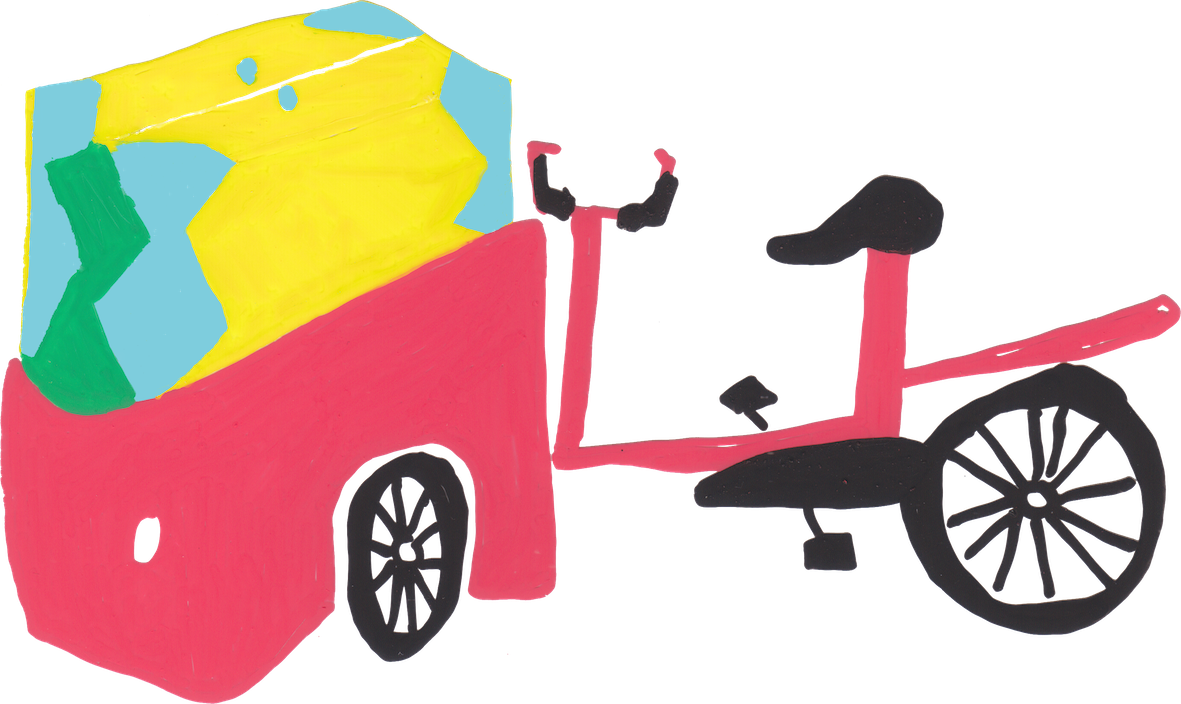
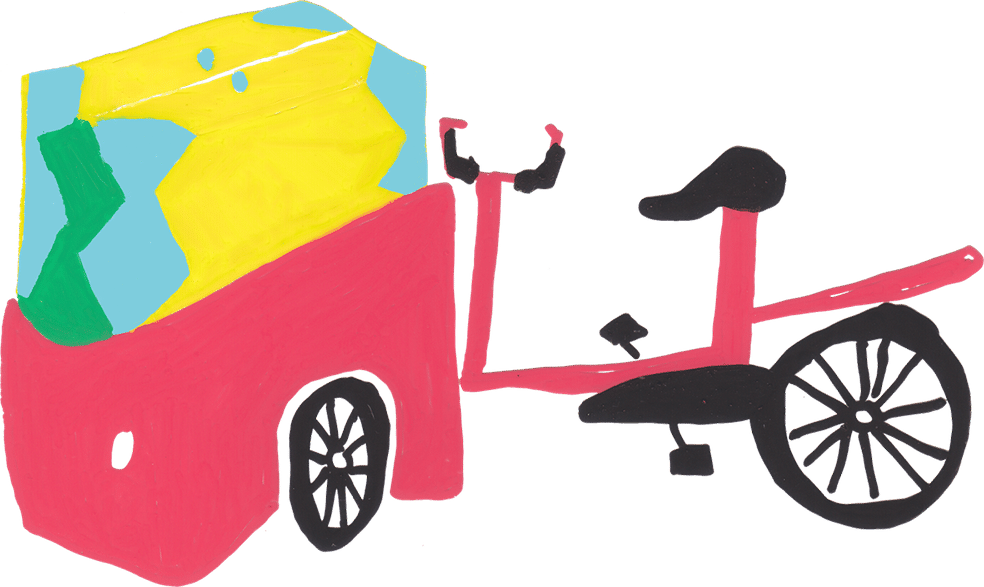
Working on chrome?
I'm removing the p5 sound bit since we don't need that right now... hoping this allows it to work on chrome.... also smaller bike img :)

diff --git a/buurtijs.js b/buurtijs.js
@@ -17,6 +17,10 @@ let textY;
 let cnv;
 
 
+function preload (){
+  bike2 = loadImage ("images/Bike2-s.png");
+}
+
 function setup() {
   cnv = createCanvas(windowWidth, windowHeight);
   // cnv.position(0,0)
@@ -29,15 +33,9 @@ function setup() {
  textX = 0.20*windowWidth;
  textY = 0.30*windowHeight;
  sSize = 25;
-
-}
-
-function preload (){
-  bike2 = loadImage ("images/Bike2-s.png");
 }
 
 function draw() {
-  // DONT FORGET TO COMMENT BACKGROUND BACK IN
 background (33, 33, 33);
 fill('white');
 textAlign(CENTER)

diff --git a/index.html b/index.html
@@ -14,7 +14,7 @@
 
   </style>
   <script language="javascript" src="./p5.js"></script>
-  <script language="javascript" src="../addons/p5.sound.js"></script>
+  <!-- <script language="javascript" src="../addons/p5.sound.js"></script> -->
 <script src="buurtijs.js"></script>
      <link rel="stylesheet" type="text/css" href="style.css">
 </head>

diff --git a/archive.html b/archive.html
@@ -12,7 +12,7 @@
     }
   </style>
   <script src="./p5.js"></script>
-  <script src="../addons/p5.sound.js"></script>
+  <!-- <script src="../addons/p5.sound.js"></script> -->
   <script src="archive.js"></script>
      <link rel="stylesheet" type="text/css" href="style.css">
 </head>
